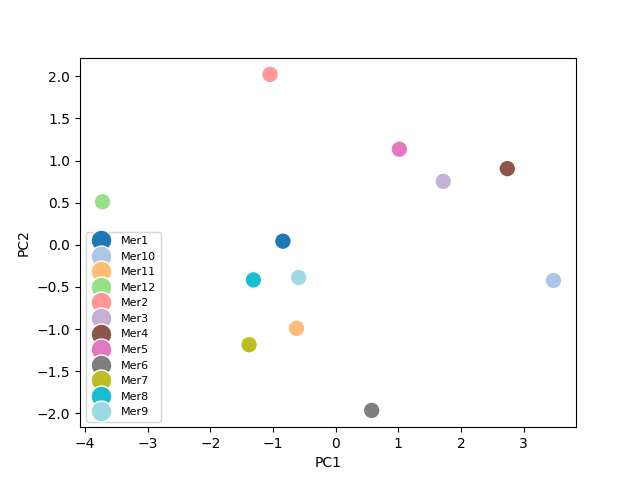
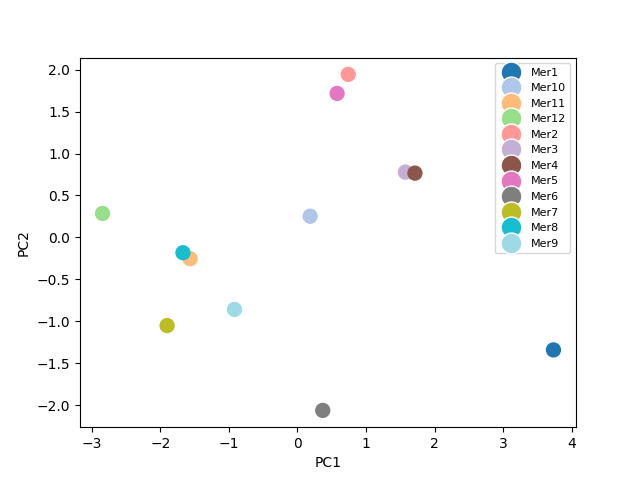
Regenerated figures using new predictions

diff --git a/analysis/6_prediction_visualisations.py b/analysis/6_prediction_visualisations.py
@@ -8,7 +8,7 @@ import json
 with open('../config.json', 'r') as f:
     config = json.load(f)
 
-DATASET = "Merkuriusz"
+DATASET = "Konstytucja"
 
 ELEMENTS_TO_KEEP = config["elements_to_keep"]
 ELEMENTS_TO_KEEP_NO_FE = [el for el in ELEMENTS_TO_KEEP if el != 'Fe']
